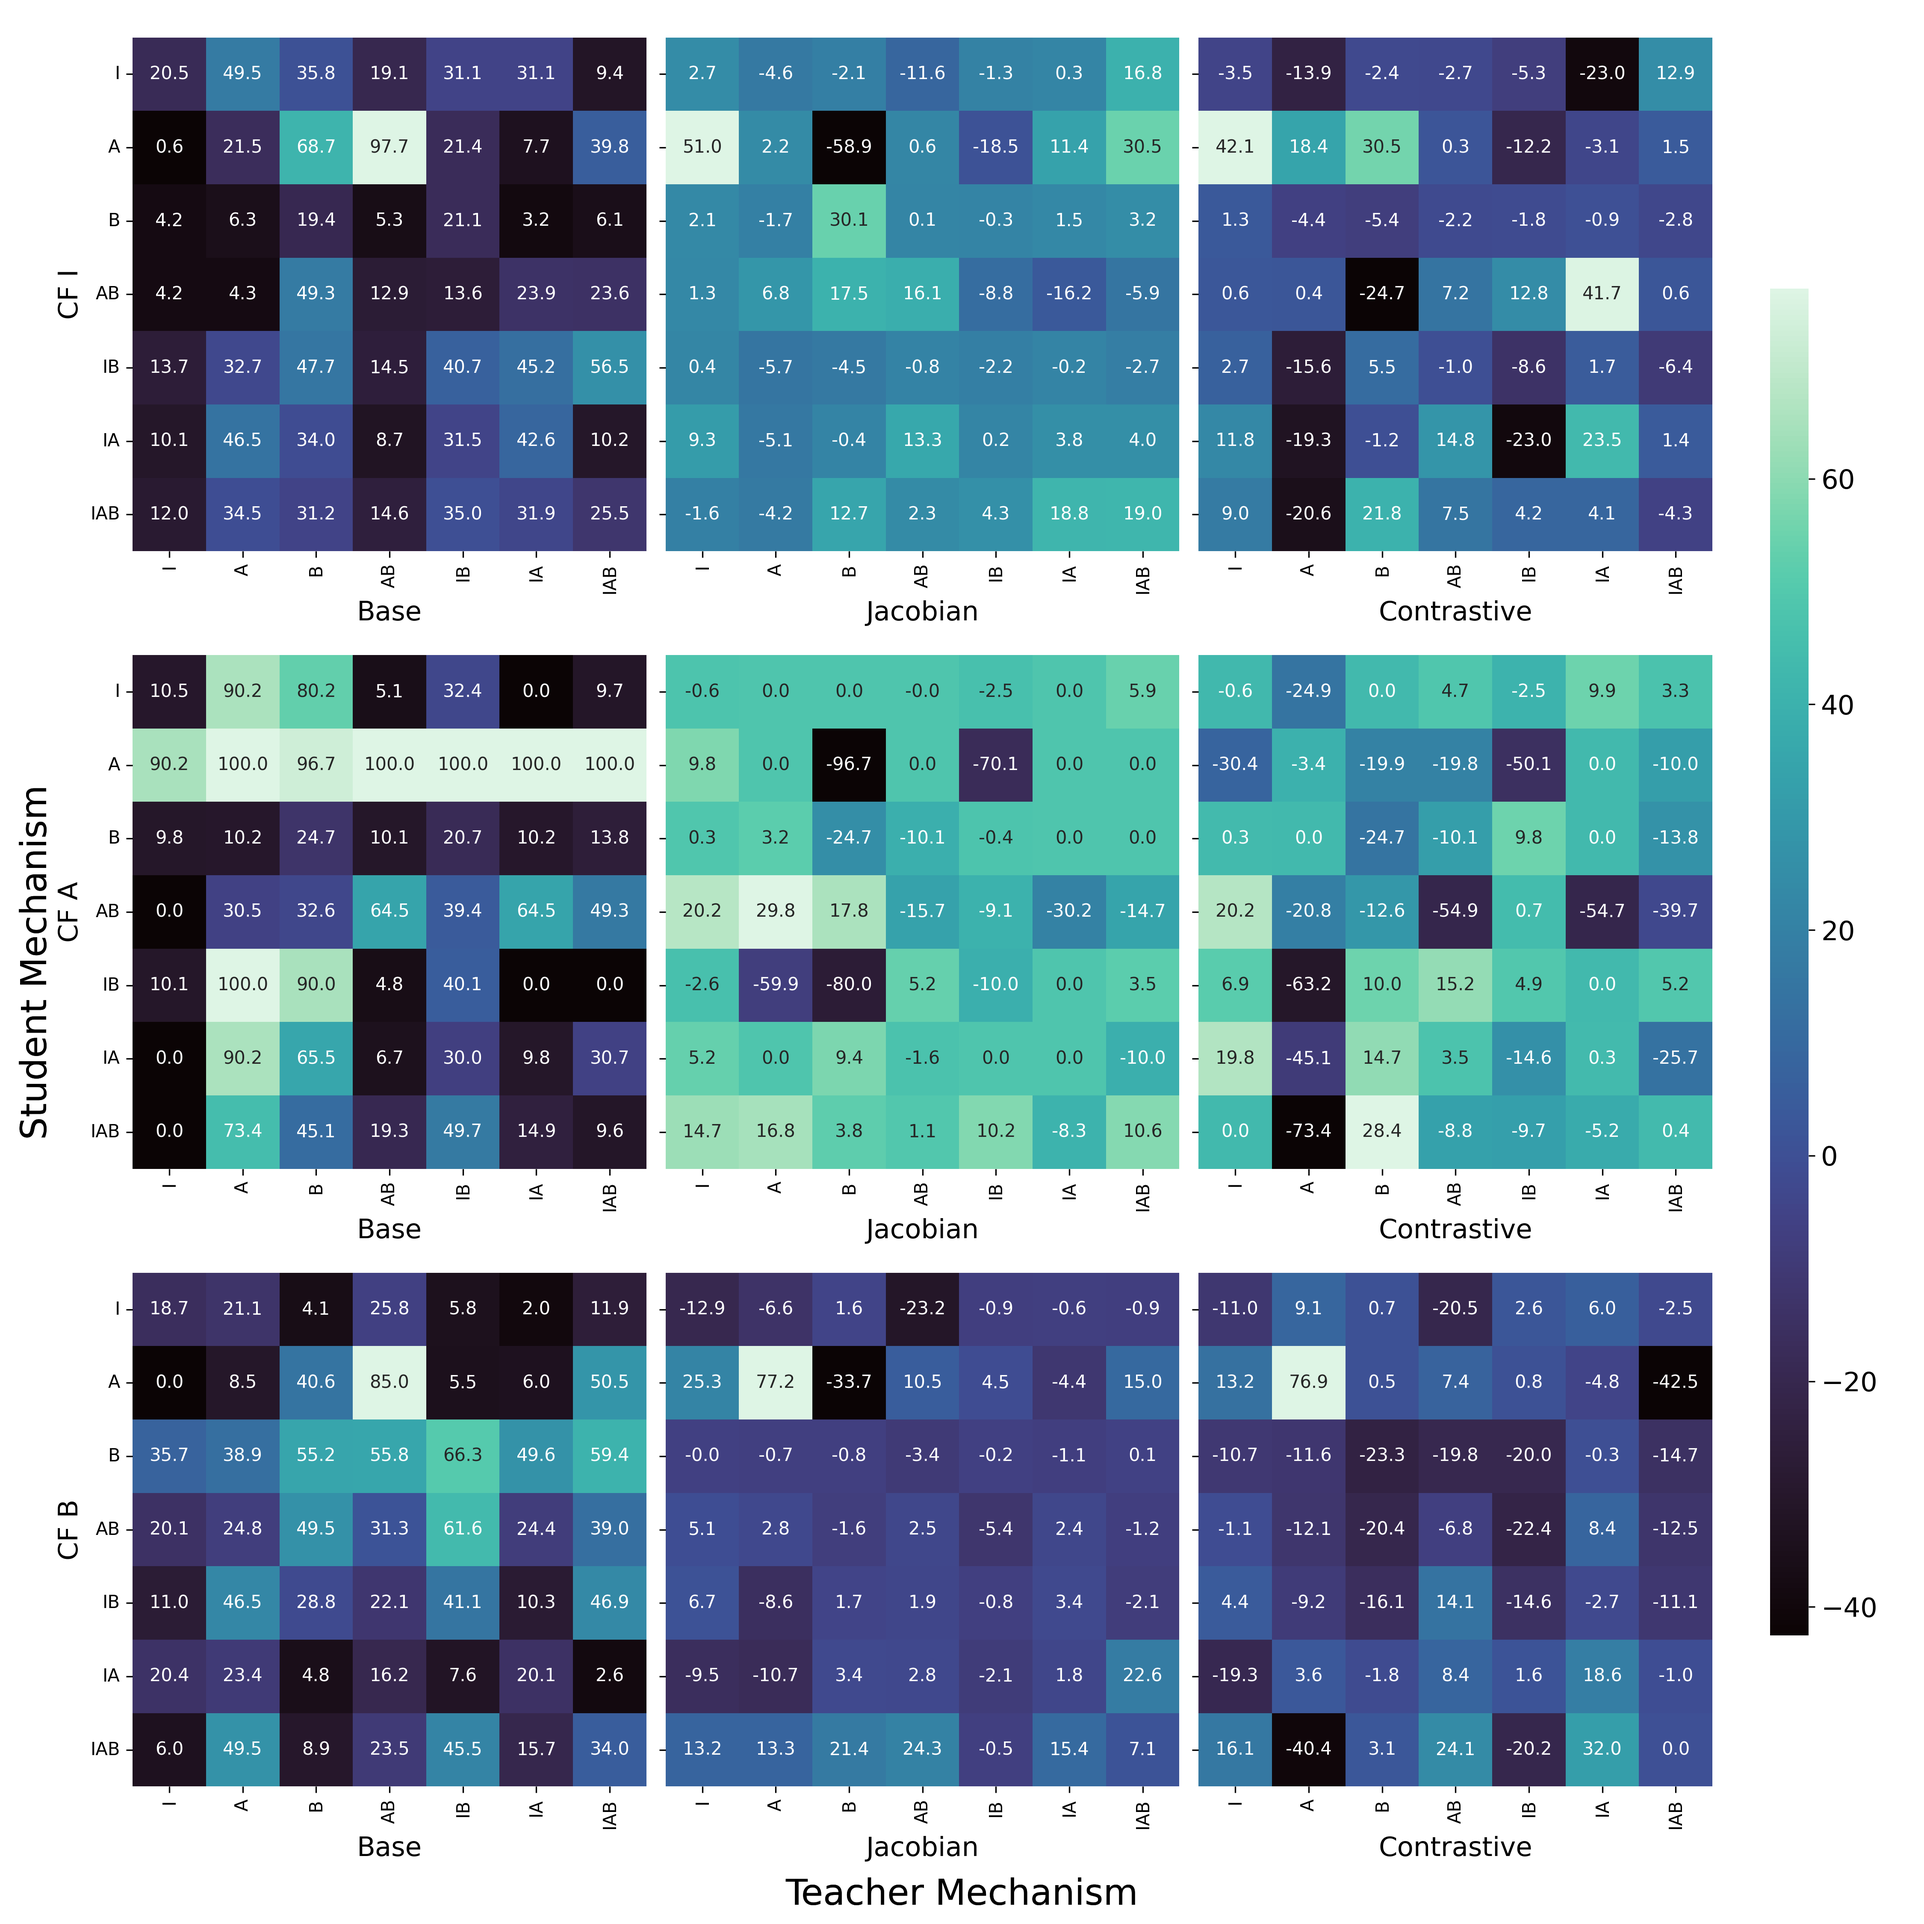
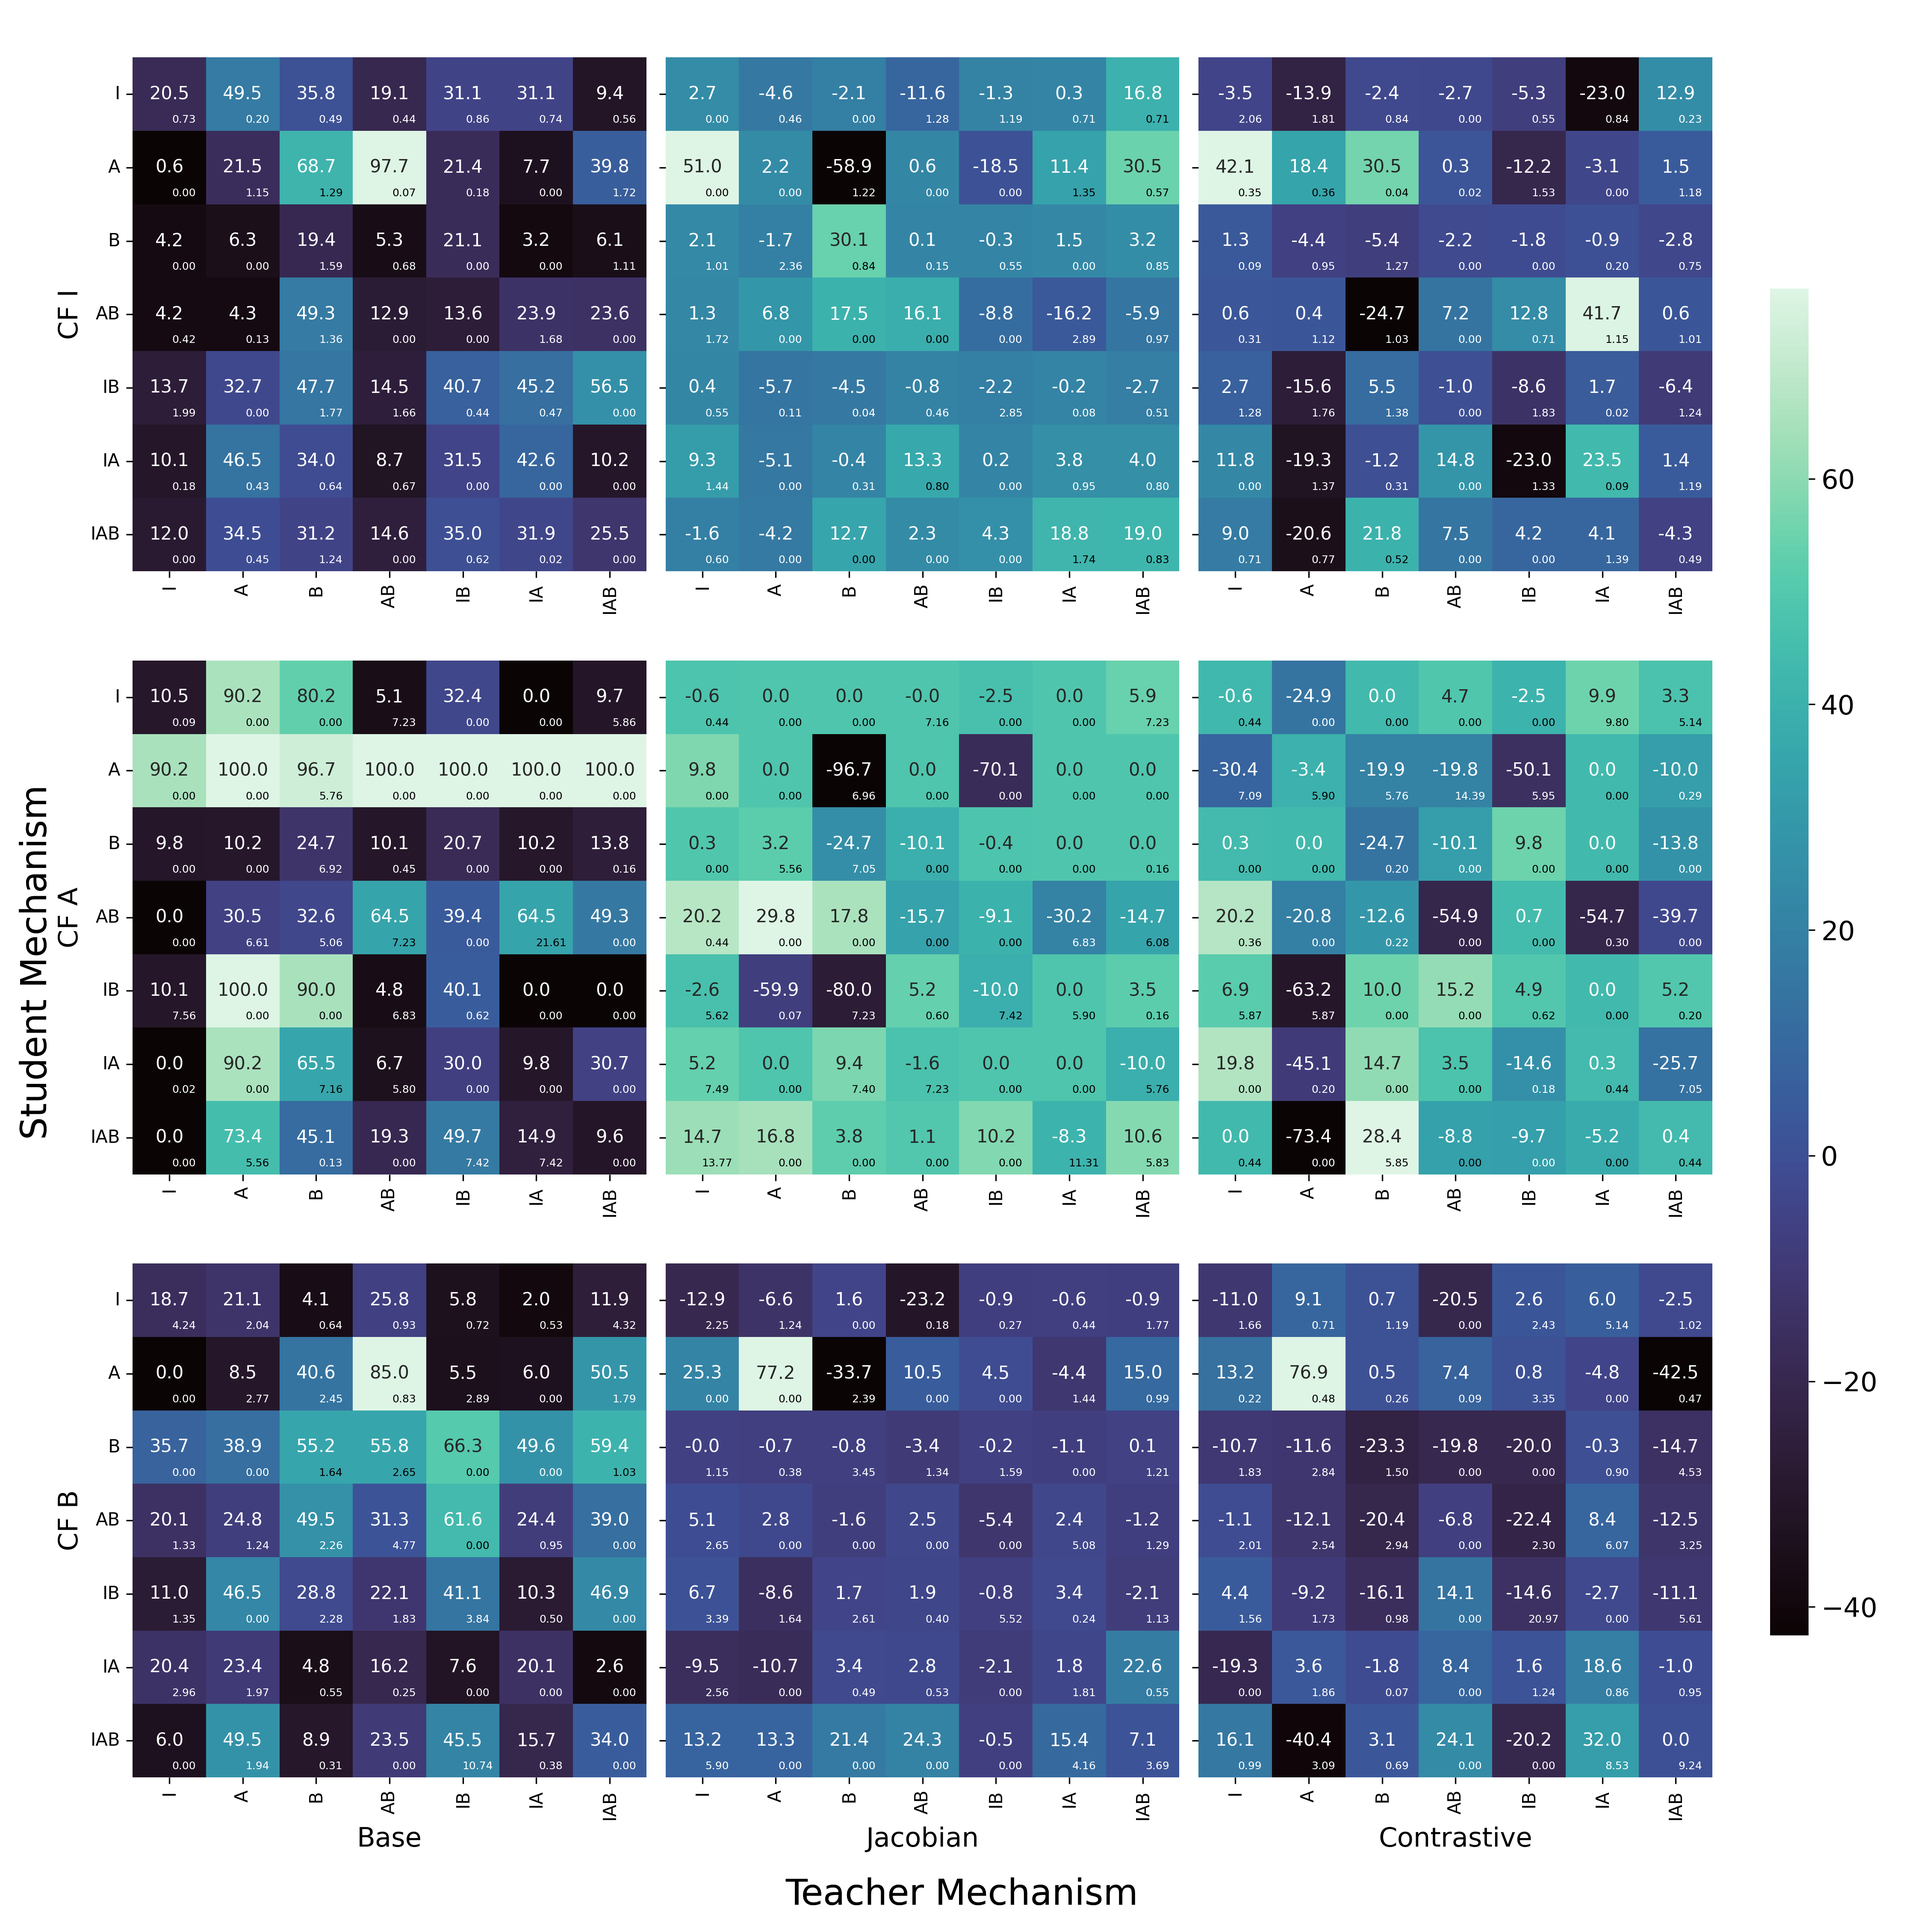
More plotting

diff --git a/Lent/plotting_exhaustive.py b/Lent/plotting_exhaustive.py
@@ -447,6 +447,10 @@ def plot_difference_heatmaps(differences: Dict[str, np.ndarray], loss_name: str,
         plt.savefig(f'images/difference_heatmaps/{loss_name}_{box_pattern}/{key}.png', dpi=300, bbox_inches='tight')
 
 
+from typing import List, Dict
+import pandas as pd
+import numpy as np
+
 def compute_difference(base_hist: List[pd.DataFrame], compare_hist: List[pd.DataFrame], type: str = 'ACC') -> Dict[str, np.ndarray]:
     """Difference between final attributes of different loss function to KL distillation loss.
     Retrieves data for calling by plot_difference_heatmaps.
@@ -454,9 +458,10 @@ def compute_difference(base_hist: List[pd.DataFrame], compare_hist: List[pd.Data
     data_to_diff = {}
     num_keys = len(exp_names)
 
-    # Initialize difference array with zeros
+    # Initialize difference array with zeros and another key for variance with suffix ' Var'
     for key in exp_names:
         data_to_diff[key] = np.zeros((num_keys, num_keys))
+        data_to_diff[key + ' Var'] = np.zeros((num_keys, num_keys))
     
     # Create a dictionary for easier lookup based on Group Name for each history in compare_hist
     compare_hist_dict = {tuple(hist['Group Name'].iloc[0].values()): hist for hist in compare_hist}
@@ -471,7 +476,7 @@ def compute_difference(base_hist: List[pd.DataFrame], compare_hist: List[pd.Data
             case 'TOP1':
                 return f'{key} T-S Top 1 Fidelity {metric}'
     
-    # Compute the differences
+    # Compute the differences and variances
     for b_hist in base_hist:
         mechs = b_hist['Group Name'].iloc[0]
         if tuple(mechs.values()) in compare_hist_dict:
@@ -482,9 +487,11 @@ def compute_difference(base_hist: List[pd.DataFrame], compare_hist: List[pd.Data
                 base_value = b_hist[get_column_name(key, 'Mean')].loc[b_hist[get_column_name(key, 'Mean')].last_valid_index()]
                 compare_value = c_hist[get_column_name(key, 'Mean')].loc[c_hist[get_column_name(key, 'Mean')].last_valid_index()]
                 data_to_diff[key][row, col] = compare_value - base_value
+                
+                compare_variance_value = c_hist[f"{key} Var"].loc[c_hist[f"{key} Var"].last_valid_index()]
+                data_to_diff[key + ' Var'][row, col] = compare_variance_value
 
     return data_to_diff
-
 
 
 def plot_grid_heatmaps(exp_names: List[str],
@@ -638,28 +645,25 @@ def plot_grid_difference_heatmaps(exp_names: List[str],
         
         heatmap = sns.heatmap(differences[key], cmap='mako', annot=True, fmt=".1f", cbar=True, cbar_ax=cbar_ax, ax=ax, vmax=vmax, vmin=vmin)
         cbar_ax.tick_params(labelsize=15)
-
-        # Extract variance for the current key and loss type
-        variance_key = key + " Var"
-        if variance_key in histories:
-            variance_data = histories[variance_key]
-            
-            # Annotate each cell with the standard deviation value
-            for i in range(num_keys):
-                for j in range(num_keys):
-                    variance = variance_data[i, j]
-                    std_dev = np.sqrt(variance)
-                    value = differences[key][i, j]
-                    
-                    # Check the brightness of the cell to determine text color
-                    norm = plt.Normalize(vmin=vmin, vmax=vmax)
-                    rgb = mako_cmap(norm(value))[:3]
-                    brightness = sum(rgb) / 3.0
-                    text_color = "white" if brightness < 0.5 else "black"
-                    ax.text(j + 0.7, i + 0.85, f"{std_dev:.2f}", va='center', ha='center', color=text_color, fontsize=6)
+        
+        # Annotate each cell with the standard deviation value
+        variance_data = differences[key + " Var"]
+        for i in range(num_keys):
+            for j in range(num_keys):
+                variance = variance_data[i, j]
+                std_dev = np.sqrt(variance)
+                value = differences[key][i, j]
+                
+                # Check the brightness of the cell to determine text color
+                norm = plt.Normalize(vmin=vmin, vmax=vmax)
+                rgb = mako_cmap(norm(value))[:3]
+                brightness = sum(rgb) / 3.0
+                text_color = "white" if brightness < 0.5 else "black"
+                ax.text(j + 0.7, i + 0.85, f"{std_dev:.2f}", va='center', ha='center', color=text_color, fontsize=6)
         
         # Set axis labels
-        ax.set_xlabel(loss_name, fontsize=15)
+        if key_index == len(exp_row_names) - 1:
+            ax.set_xlabel(loss_name, fontsize=15)
         if loss_name == 'Base':
             ax.set_ylabel(f"CF {key}", fontsize=15)
         ax.set_xticklabels(exp_names, rotation='vertical', fontsize=10)
@@ -687,9 +691,10 @@ def convert_hist_to_dict(hist: List[pd.DataFrame], type: str = 'ACC') -> Dict[st
     data_dict = {}
     num_keys = len(exp_names)
 
-    # Initialize the dictionary with zeros
+    # Initialize the dictionary with zeros and another key for variance with suffix ' Var'
     for key in exp_names:
         data_dict[key] = np.zeros((num_keys, num_keys))
+        data_dict[key + ' Var'] = np.zeros((num_keys, num_keys))
     
     # Create a dictionary for easier lookup based on Group Name for each history in hist
     hist_dict = {tuple(data['Group Name'].iloc[0].values()): data for data in hist}
@@ -714,9 +719,11 @@ def convert_hist_to_dict(hist: List[pd.DataFrame], type: str = 'ACC') -> Dict[st
             for key in exp_names:
                 value = current_data[get_column_name(key, 'Mean')].loc[current_data[get_column_name(key, 'Mean')].last_valid_index()]
                 data_dict[key][row, col] = value
+                
+                variance_value = current_data[f"{key} Var"].loc[current_data[f"{key} Var"].last_valid_index()]
+                data_dict[key + ' Var'][row, col] = variance_value
 
     return data_dict
-
 
 
 if __name__ == "__main__":
@@ -805,7 +812,7 @@ if __name__ == "__main__":
     
     elif mode == 5:
         types = ["ACC", "KL", "TOP1"]
-        box_pattern = "RANDOM"
+        box_pattern = "MANDELBROT"
         exp_row_names_list = [['I', 'A', 'B'], ['AB', 'IB', 'IA', 'IAB']]
         for i, exp_row_names in enumerate(exp_row_names_list):
             for type in types:
